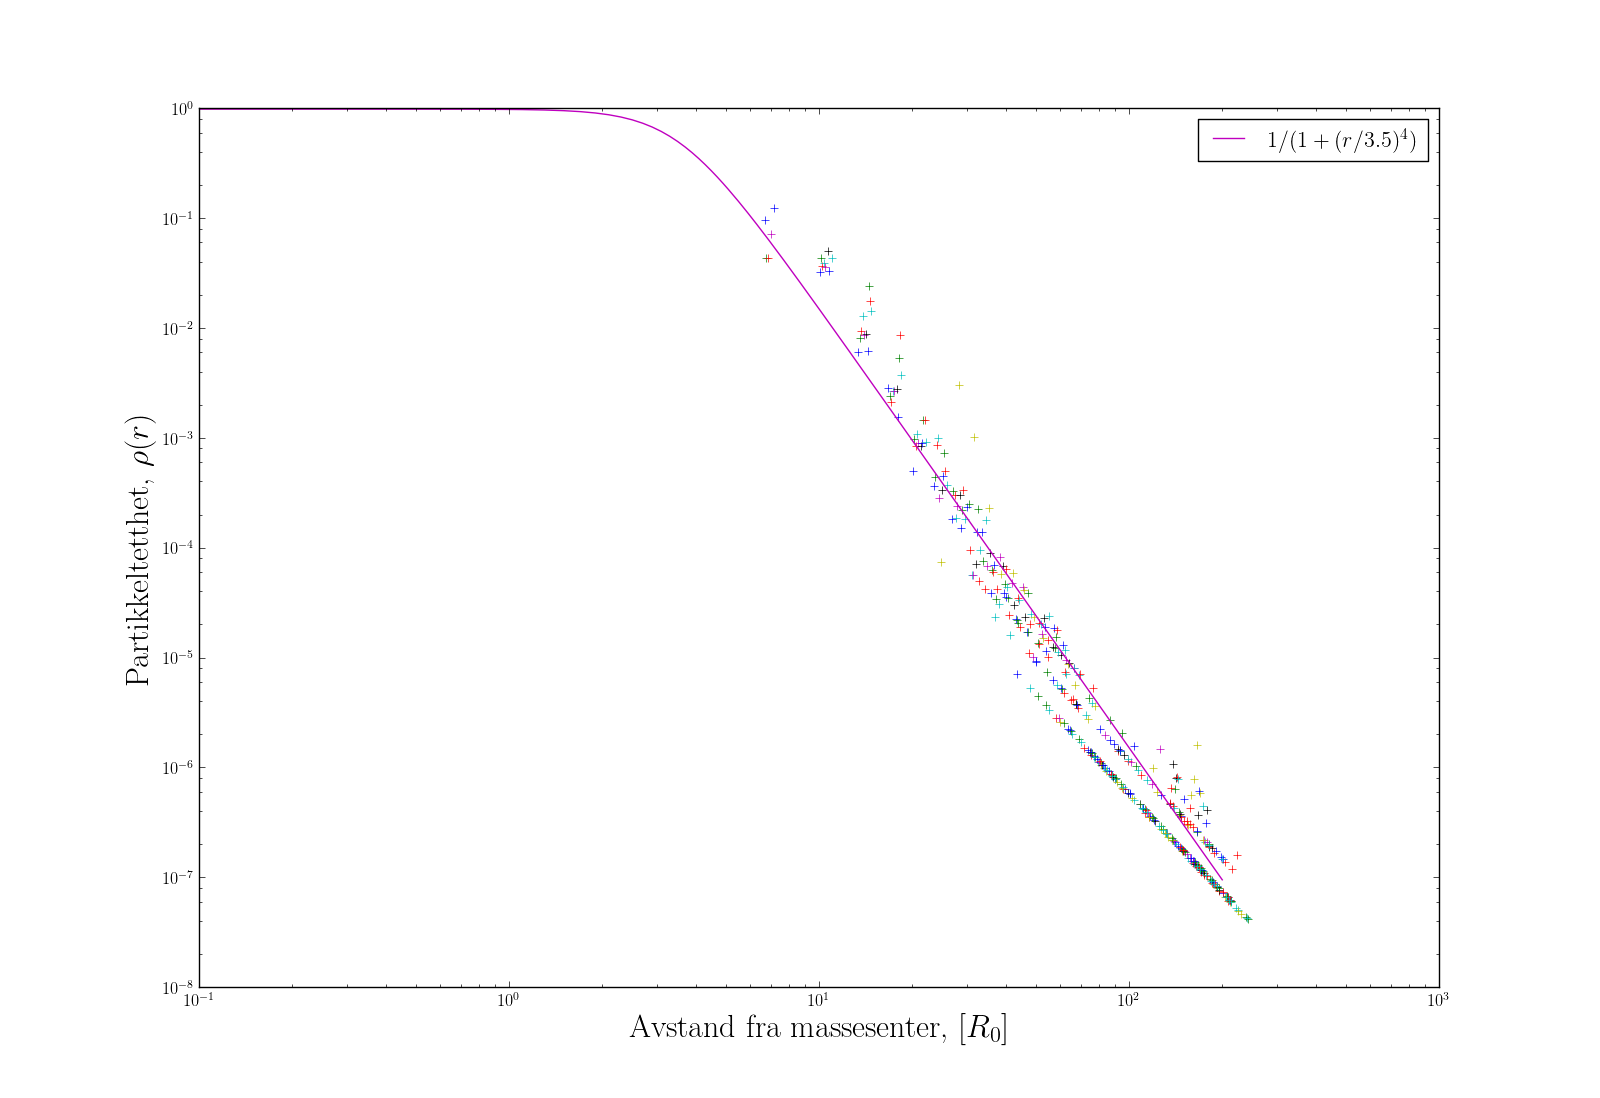
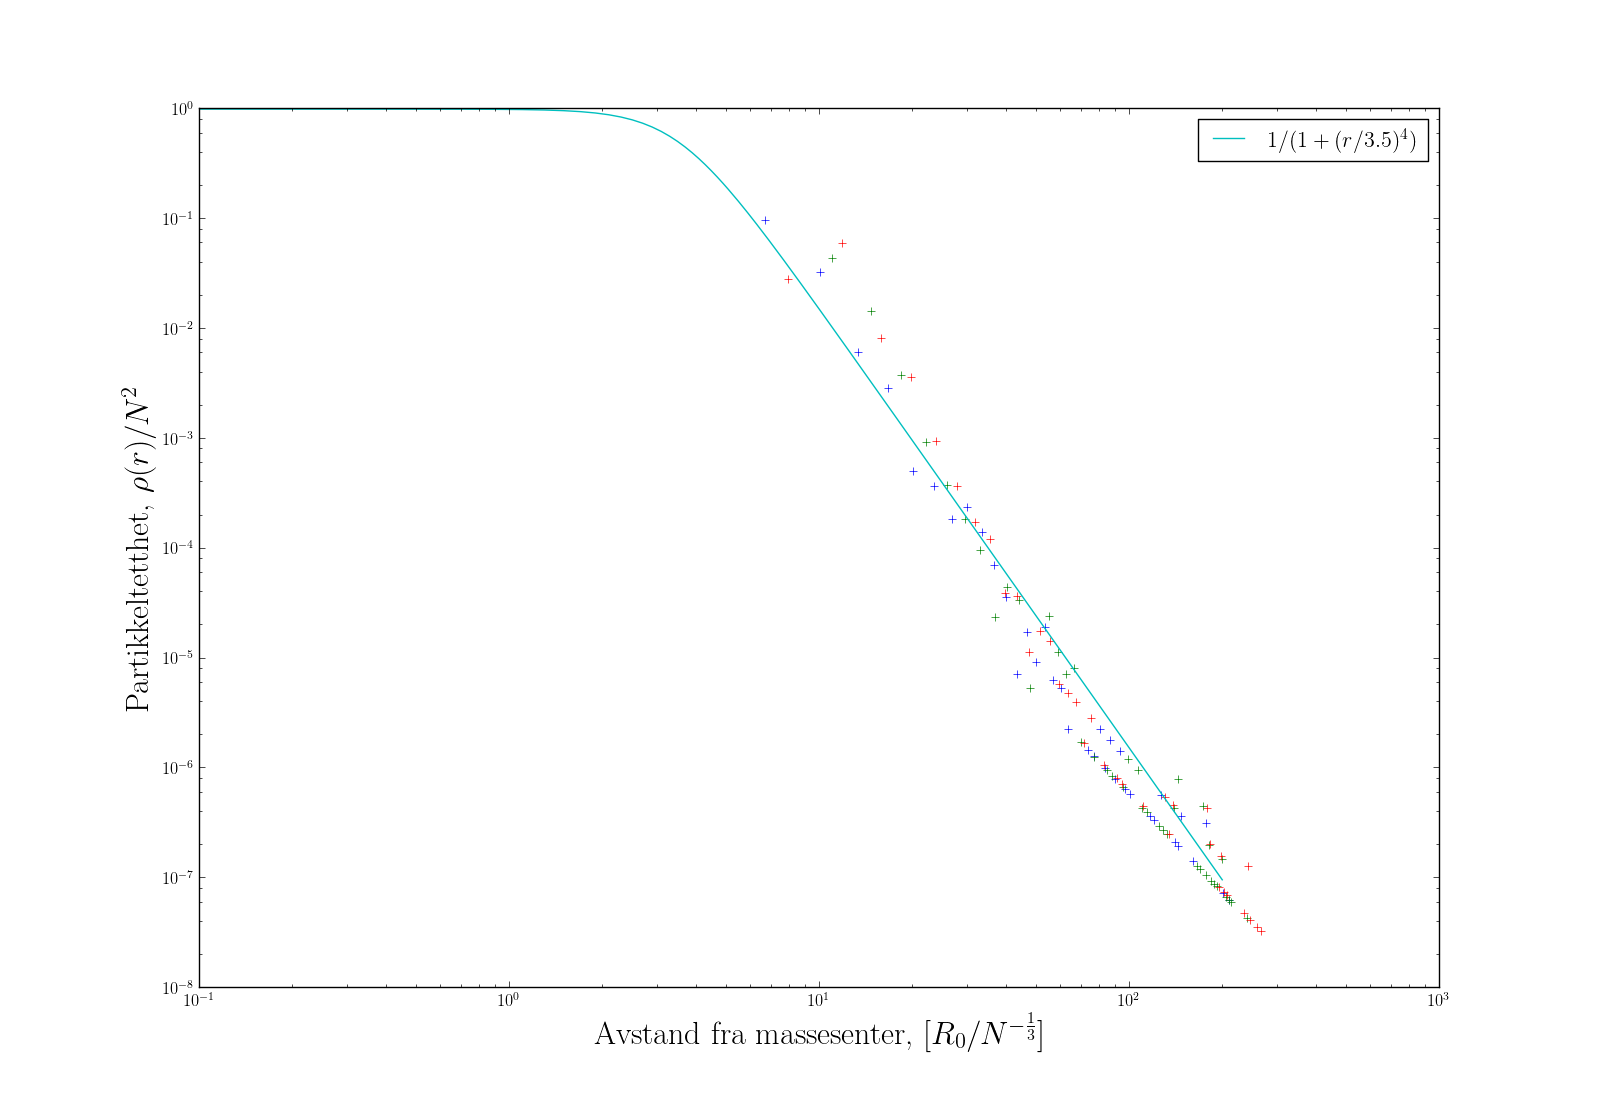
Figurpynt

diff --git a/project5/src/radialDensity.py b/project5/src/radialDensity.py
@@ -97,8 +97,8 @@ dummy.set_xlabel(r'Avstand fra massesenter, [$R_0$]',size=23)
 dummy.set_ylabel(r'Nummertetthet, $n(r)$',size=23)
 dummy.legend(prop={'size':16})
 ax.legend(prop={'size':16})
-ax.set_xlabel(r'Avstand fra massesenter, [$R_0$]',size=23)
-ax.set_ylabel(r'Partikkeltetthet, $\rho(r)$',size=23)
+ax.set_xlabel(r'Avstand fra massesenter, [$R_0/N^{-\frac{1}{3}}$]',size=23)
+ax.set_ylabel(r'Partikkeltetthet, $\rho(r)/N^2$',size=23)
 #box = dummy.get_position()
 #dummy.set_position([box.x0, box.y0*1.25, box.width, box.height])
 
